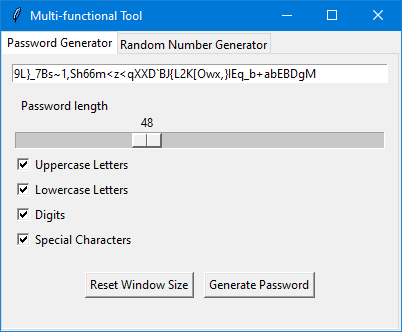
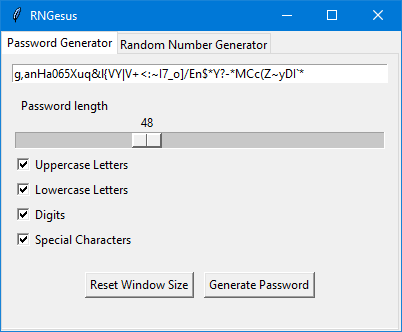
update

Changed region(s): [[0.0299, 0.2108, 0.806, 0.241], [0.0597, 0.0301, 0.3582, 0.0602]]

diff --git a/main.py b/main.py
@@ -71,7 +71,7 @@ def reset_ui():
 
 # Create the main window
 root = tk.Tk()
-root.title("Multi-functional Tool")
+root.title("RNGesus")
 center_window(400, 300)
 
 # Create Tab Control
